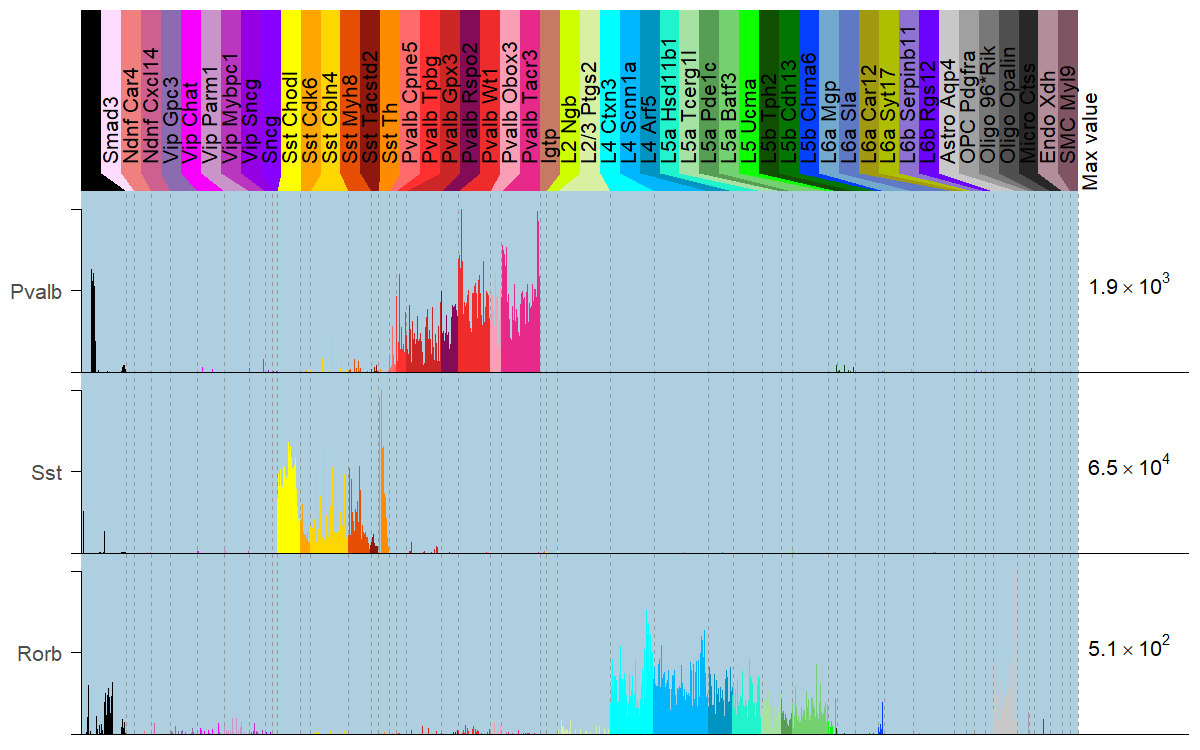
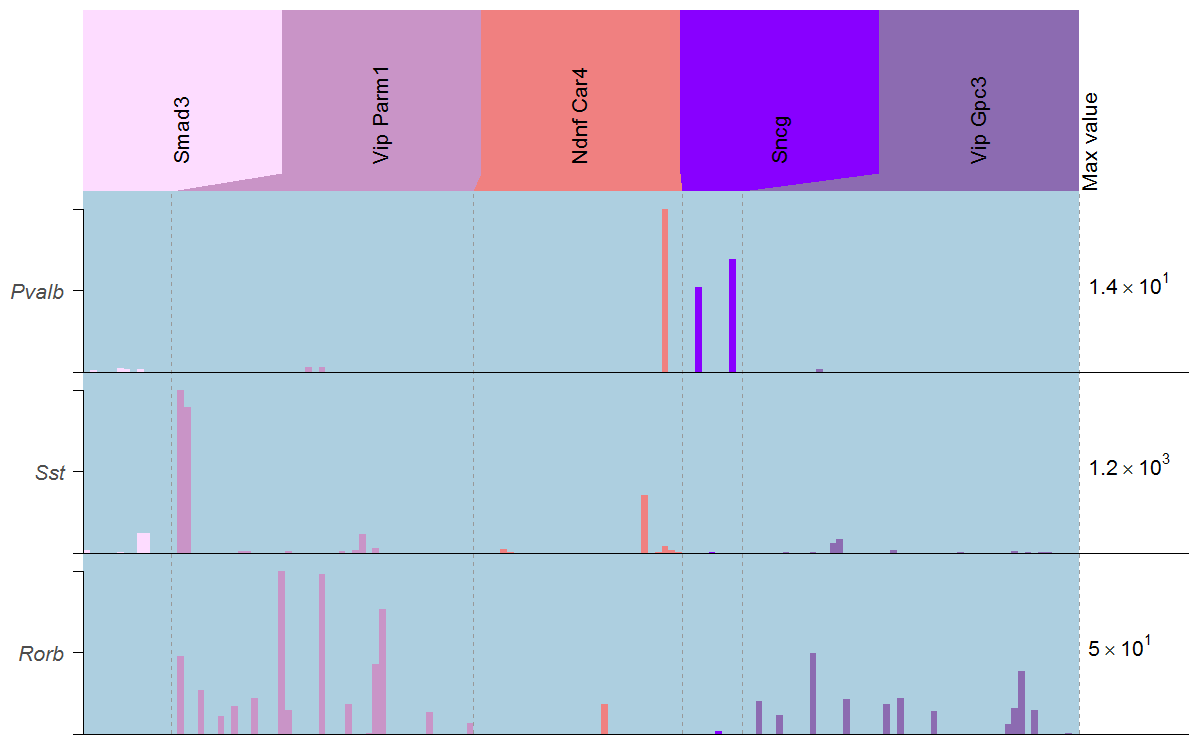
Updating demo plots and README to include demo data and parameters

diff --git a/README.md b/README.md
@@ -17,30 +17,117 @@ Once installed, `scrattch.vis` provides a variety of functions for visualizing s
 
 ### Sample-centric plots:
 
+Load packages and data:
+```
+library(tasic2016data)
+library(scrattch.vis)
+options(stringsAsFactors = F)
+
+anno <- tasic_2016_anno
+anno <- anno[anno$cluster_id > 0,]
+data <- tasic_2016_rpkm
+data_df <- cbind(sample_name = colnames(data),
+                 as.data.frame(t(data[c("Pvalb","Sst","Rorb"),])))
+```
+
 sample_bar_plot()
+```
+sample_bar_plot(data_df, 
+                anno, 
+                genes = c("Pvalb","Sst","Rorb"), 
+                grouping = "primary_type", 
+                group_order = c(1,6,2,9,4),
+                log_scale = FALSE,
+                font_size = 5,
+                label_type = "angle")
+```
 ![](man/figures/sample_bar_plot.png?raw=true)  
 
 sample_heatmap_plot()
+```
+sample_heatmap_plot(data_df, 
+                    anno, 
+                    genes = c("Pvalb","Sst","Rorb"), 
+                    grouping = "primary_type", 
+                    log_scale = TRUE,
+                    font_size = 5)
+```
 ![](man/figures/sample_heatmap_plot.png?raw=true)  
 
 sample_fire_plot()
+```
+sample_fire_plot(data_df, 
+                 anno, 
+                 genes = c("Pvalb","Sst","Rorb"), 
+                 grouping = "primary_type", 
+                 log_scale = TRUE,
+                 top_value = "lowest",
+                 font_size = 5)
+```
 ![](man/figures/sample_fire_plot.png?raw=true)
 
 ### Group-centric plots:
 
-group_violing_plot()
+group_violin_plot()
+```
+group_violin_plot(data_df, 
+                  anno, 
+                  genes = c("Pvalb","Sst","Rorb"), 
+                  grouping = "primary_type", 
+                  log_scale = FALSE,
+                  font_size = 5,
+                  rotate_counts = TRUE)
+```
 ![](man/figures/group_violin_plot.png?raw=true)  
 
 group_quasirandom_plot()
+```
+group_quasirandom_plot(data_df, 
+                       anno, 
+                       genes = c("Pvalb","Sst","Rorb"), 
+                       grouping = "primary_type", 
+                       log_scale = FALSE,
+                       font_size = 5,
+                       rotate_counts = TRUE)
+```
 ![](man/figures/group_quasirandom_plot.png?raw=true)  
 
 group_dot_plot()
+```
+group_dot_plot(data_df, 
+               anno, 
+               genes = c("Pvalb","Sst","Rorb"), 
+               grouping = "primary_type", 
+               log_scale = TRUE,
+               font_size = 5,
+               max_size = 5,
+               rotate_counts = TRUE)
+```
 ![](man/figures/group_dot_plot.png?raw=true)  
 
 group_box_plot()
+```
+group_box_plot(data_df, 
+               anno, 
+               genes = c("Pvalb","Sst","Rorb"), 
+               grouping = "primary_type", 
+               log_scale = FALSE,
+               font_size = 5,
+               rotate_counts = TRUE)
+```
 ![](man/figures/group_box_plot.png?raw=true)  
 
 group_heatmap_plot()
+```
+group_heatmap_plot(data_df, 
+                   anno, 
+                   genes = c("Pvalb","Sst","Rorb"), 
+                   grouping = "primary_type", 
+                   stat = "tmean",
+                   log_scale = TRUE,
+                   font_size = 5,
+                   rotate_counts = TRUE)
+```
 ![](man/figures/group_heatmap_plot.png?raw=true)  
 
 ## The `scrattch` suite
